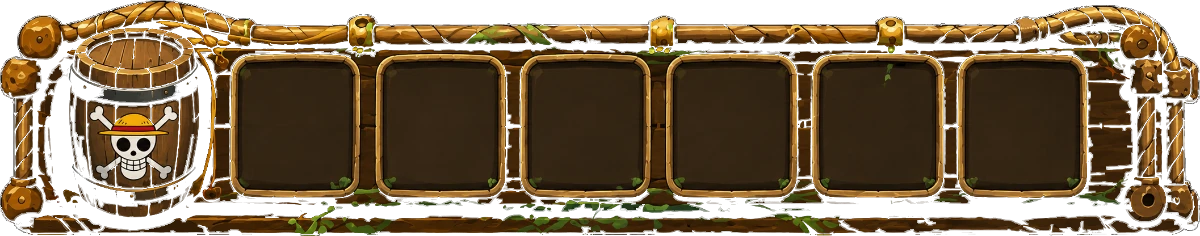
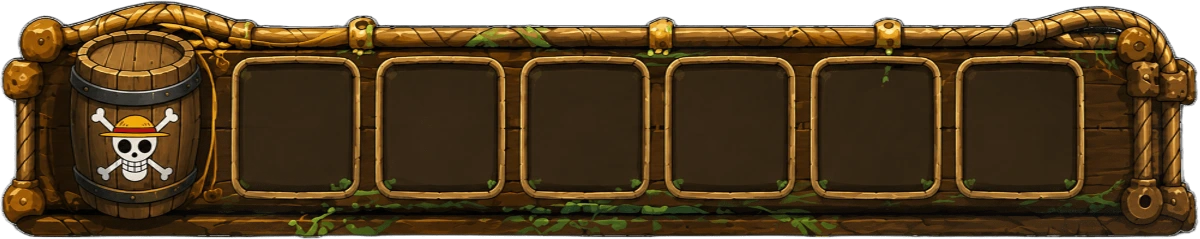
Marcos transparentes e integrados en la ilustracion
Se cambian los dos marcos por las versiones con transparencia: los que habia
salian de recortar el fondo negro a mano y se comian parte de la madera
oscura, con lo que el tablon de la tienda se veia medio transparente.

Ademas se integran en el fondo como en el mockup: la barra de abajo pierde el
degradado oscuro y el hueco entre banquillo y tienda, se pega al borde
inferior, y la cubierta se coloca lo mas baja que puede sin esconder la ultima
fila, de forma que el casco del barco queda por detras de los marcos en vez de
flotar con un trozo de mar entre medias. Lo que sobra de pantalla lo rellena
ahora un degradado que arranca con el color medio del borde del dibujo, para
que no se note la juntura.

Los huecos del banquillo se vuelven a medir sobre la imagen nueva.

diff --git a/public/js/scene3d.js b/public/js/scene3d.js
@@ -32,6 +32,10 @@ const ART = {
   tr: [817, 540],
   br: [884, 898],   // esquina exterior de la casilla de abajo a la derecha
   bl: [254, 898],
+  // color medio del borde de arriba y del de abajo del dibujo: con ellos se
+  // continua la imagen cuando sobra pantalla y no se ve la juntura
+  cielo: '#1c7ce4',
+  mar: '#032c5c',
 };
 
 // Colores de cada tripulacion (mismos tonos que la interfaz 2D)
@@ -78,12 +82,14 @@ const H_ARTE_INV = invertirH(H_ARTE);
 
 export function createScene(container) {
   // ---------------- Fondo: la ilustracion ----------------
-  // La ilustracion, y detras un degradado cielo-mar que continua el dibujo
-  // por arriba y por abajo cuando sobra pantalla.
+  // La ilustracion, y detras un degradado cielo-mar que continua el dibujo por
+  // arriba y por abajo cuando sobra pantalla. Los cortes del degradado se
+  // colocan justo en los bordes del dibujo (ver calcularEncaje) y con el color
+  // medio de esos bordes, para que no se note la juntura.
   container.style.backgroundImage =
-    `url('${ART.src}'), linear-gradient(180deg, #4ea8ea 0%, #2f8fd8 42%, #1a5fa8 100%)`;
+    `url('${ART.src}'), linear-gradient(180deg, ${ART.cielo} 0%, ${ART.mar} 100%)`;
   container.style.backgroundRepeat = 'no-repeat, no-repeat';
-  container.style.backgroundColor = '#1c6fb4';
+  container.style.backgroundColor = ART.mar;
 
   const scene = new THREE.Scene();
   const camera = new THREE.OrthographicCamera(0, 1, 1, 0, -20000, 20000);
@@ -124,6 +130,12 @@ export function createScene(container) {
   // (contain), y se coloca centrado en la franja libre entre el HUD y la barra
   // de abajo, sin salirse de la pantalla. Lo que sobra a los lados o arriba y
   // abajo lo tapa el degradado de cielo y mar del fondo.
+  // Cuando sobra sitio por abajo (en movil el dibujo lo limita el ancho) se
+  // baja para que el casco quede por detras del banquillo y la tienda, como
+  // en el mockup, en vez de flotar con un trozo de mar entre medias.
+  const SESGO_ABAJO = 0.55; // cuanto de esa holgura se aprovecha
+  const MARGEN_REJILLA = 6; // px que se dejan libres bajo la ultima fila
+
   function calcularEncaje() {
     const libreAlto = Math.max(80, alto - insetTop - insetBottom);
     const escala = Math.min(ancho / ART.w, alto / ART.h);
@@ -131,15 +143,26 @@ export function createScene(container) {
     const dibujoH = ART.h * escala;
 
     const centroRejillaY = (ART.tl[1] + ART.tr[1] + ART.br[1] + ART.bl[1]) / 4;
+    const rejillaAbajo = Math.max(ART.bl[1], ART.br[1]);
     let ox = (ancho - dibujoW) / 2;
     // centramos la rejilla en la franja libre y luego lo metemos en pantalla
     let oy = insetTop + libreAlto / 2 - centroRejillaY * escala;
+    // ...y la bajamos mientras la ultima fila siga viendose entera
+    const oyTope = alto - insetBottom - MARGEN_REJILLA - rejillaAbajo * escala;
+    if (oyTope > oy) oy += (oyTope - oy) * SESGO_ABAJO;
     oy = Math.max(Math.min(oy, alto - dibujoH), 0);
     if (dibujoH > alto) oy = 0;
 
     fit = { escala, ox, oy };
     container.style.backgroundSize = `${Math.round(dibujoW)}px ${Math.round(dibujoH)}px, 100% 100%`;
     container.style.backgroundPosition = `${Math.round(ox)}px ${Math.round(oy)}px, 0 0`;
+    // El degradado se queda plano hasta donde empieza el dibujo y desde donde
+    // acaba: asi el cielo de arriba y el mar de abajo enlazan sin escalon.
+    const arriba = Math.round(oy);
+    const abajo = Math.round(oy + dibujoH);
+    container.style.backgroundImage =
+      `url('${ART.src}'), linear-gradient(180deg, ${ART.cielo} 0px, ${ART.cielo} ${arriba}px, ` +
+      `${ART.mar} ${abajo}px, ${ART.mar} 100%)`;
   }
 
   // Punto del dibujo -> pixel de pantalla

diff --git a/public/css/style.css b/public/css/style.css
@@ -197,14 +197,16 @@ body.in-game { height: min(var(--app-height, 100svh), 100svh); }
 .syn-info { display: flex; flex-direction: column; line-height: 1.15; }
 .syn-count { font-size: 9px; opacity: .85; }
 
-/* ---------- Barra inferior: acciones, banquillo y tienda ---------- */
+/* ---------- Barra inferior: acciones, banquillo y tienda ----------
+   Los dos marcos son madera opaca con su propia sombra, asi que van
+   directamente sobre la ilustracion: sin panel ni degradado detras, pegados
+   entre si y al borde de abajo, como en la referencia. */
 .bottom-ui {
   bottom: 0; left: 0; right: 0;
-  padding: 6px 6px calc(6px + env(safe-area-inset-bottom, 0px));
-  background: linear-gradient(0deg, rgba(4,12,28,.72), rgba(4,12,28,.45) 55%, rgba(4,12,28,0));
+  padding: 0 5px env(safe-area-inset-bottom, 0px);
   display: flex;
   flex-direction: column;
-  gap: 5px;
+  gap: 0;
 }
 
 .bottom-ui > * { width: 100%; max-width: 720px; margin: 0 auto; }
@@ -219,9 +221,9 @@ body.in-game { height: min(var(--app-height, 100svh), 100svh); }
   width: 100%;
   max-width: 470px;
   margin: 0 auto;
-  aspect-ratio: 2114 / 416;
+  aspect-ratio: 2123 / 423;
   background: url('../img/ui/bench.webp') no-repeat center / 100% 100%;
-  filter: drop-shadow(0 3px 8px rgba(0,0,0,.5));
+  filter: drop-shadow(0 4px 9px rgba(0,0,0,.55));
 }
 .bench-slot {
   position: absolute;
@@ -267,7 +269,7 @@ body.in-game { height: min(var(--app-height, 100svh), 100svh); }
 }
 .shop-inner {
   position: absolute;
-  inset: 11% 4.2% 11.5%;
+  inset: 10% 4.2% 12%;
   display: flex;
   align-items: center;
   justify-content: space-evenly;

diff --git a/public/js/game.js b/public/js/game.js
@@ -585,10 +585,10 @@ import { getThumb, getThumbSync } from './thumbs.js';
   // Huecos dibujados en el barril del banquillo (public/img/ui/bench.png),
   // medidos sobre la propia imagen y expresados en % del marco.
   const HUECOS_BANQUILLO = [
-    [19.96, 29.23], [32.02, 41.39], [44.09, 53.45],
-    [56.15, 65.66], [68.40, 77.86], [80.51, 89.83],
+    [20.02, 29.25], [32.03, 41.31], [44.09, 53.32],
+    [56.10, 65.47], [68.25, 77.63], [80.36, 89.54],
   ];
-  const HUECO_Y = [27.9, 79.9];
+  const HUECO_Y = [27.98, 79.25];
 
   function renderBench(you) {
     const wrap = document.getElementById('bench');

diff --git a/README.md b/README.md
@@ -248,8 +248,16 @@ La barra de abajo son dos ilustraciones, no CSS:
 El barril hace también de **papelera**: al seleccionar una ficha aparece encima
 por cuánto se vende, y al tocarlo se vende.
 
-Los PNG originales (con su fondo negro sin recortar) están en `assets-src/ui/`,
-junto con la referencia de la tienda llena que se usó para calcular las medidas.
+Los dos marcos van **directamente sobre la ilustración**, sin panel ni degradado
+detrás y pegados al borde de abajo, y la cubierta se coloca lo más baja que
+puede (sin esconder la última fila) para que el casco del barco quede por
+detrás de ellos. Lo que sobra de pantalla por arriba y por abajo lo rellena un
+degradado que arranca con el color medio del borde del dibujo, así que no se
+ve la juntura.
+
+Los PNG originales (con transparencia, sin recortar el margen) están en
+`assets-src/ui/`, junto con la referencia de la tienda llena y el mockup de la
+pantalla completa que se usaron para calcular las medidas.
 
 ## Fichas 3D
 
